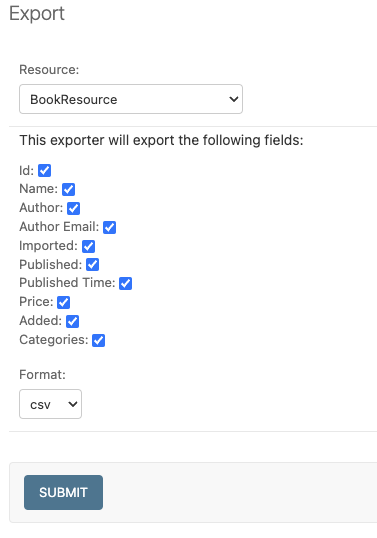
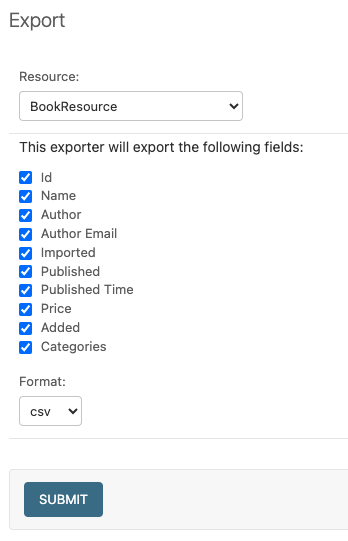
Display checkbox before label in export form (#1884)
* change export form to display checkbox before label for alignment

* update export confirm screenshot

* updated changelog for PR#1884

diff --git a/import_export/templates/admin/import_export/export.html b/import_export/templates/admin/import_export/export.html
@@ -52,13 +52,19 @@
         {% endif %}
         {{ field.errors }}
 
-        {{ field.label_tag }}
+        {% if not field.field.is_selectable_field %}
+          {{ field.label_tag }}
+        {% endif %}
 
         {% if field.field.widget.attrs.readonly %}
           {{ field.field.value }}
           {{ field.as_hidden }}
           {% else %}
           {{ field }}
+        {% endif %}
+
+        {% if field.field.is_selectable_field %}
+          {{ field.label_tag }}
         {% endif %}
 
         {% if field.field.help_text %}

diff --git a/import_export/static/import_export/export.css b/import_export/static/import_export/export.css
@@ -1,3 +1,7 @@
 .selectable-field-export-row {
     padding-left: 10px;
 }
+
+.selectable-field-export-row > label{
+    padding-left: 5px;
+}

diff --git a/import_export/forms.py b/import_export/forms.py
@@ -151,6 +151,7 @@ class SelectableFieldsExportForm(ExportForm):
             field_name = self.create_boolean_field_name(resource, field)
             boolean_field = forms.BooleanField(
                 label=self._get_field_label(resource, field),
+                label_suffix="",
                 initial=True,
                 required=False,
             )

diff --git a/tests/core/tests/admin_integration/test_export.py b/tests/core/tests/admin_integration/test_export.py
@@ -337,7 +337,7 @@ class ExportAdminIntegrationTest(AdminTestMixin, TestCase):
         self.assertContains(
             response,
             '<label for="id_ebookresource_published">'
-            "Published (published_date):</label>",
+            "Published (published_date)</label>",
             html=True,
         )
         self.assertContains(

diff --git a/docs/changelog.rst b/docs/changelog.rst
@@ -17,6 +17,7 @@ Changelog
 
 - docs: clarify widget configuration (`1865 <https://github.com/django-import-export/django-import-export/pull/1865>`_)
 - Enable skip export confirm page (`1867 <https://github.com/django-import-export/django-import-export/pull/1867>`_)
+- Admin UI: display checkboxes before labels in export form (`1884 <https://github.com/django-import-export/django-import-export/pull/1884>`_)
 
 4.0.7 (2024-05-30)
 ------------------
@@ -1039,4 +1040,3 @@ Documentation
 -----
 
 * Refactor api
-
